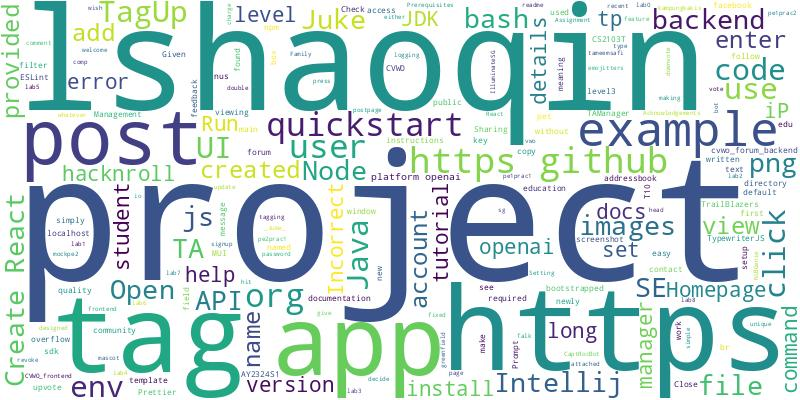
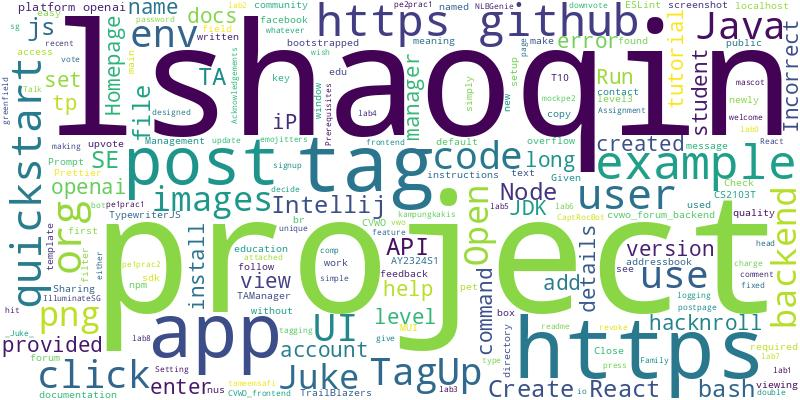
docs: auto-update README.md

diff --git a/README.md b/README.md
@@ -2,63 +2,61 @@
 ## Hi, I'm Shaoqin! 👋
 I'm a Computer Science student at the National University of Singapore. I like travelling🚀, games🎮, and music🎵!
 
----
-
 ## 🔨 I've been working on:
 
 <details>
-<summary><strong>🌟coolprofiles</strong></summary>
+<summary><strong>😎coolprofiles</strong></summary>
 Link to repo: https://github.com/lshaoqin/coolprofiles
 <br/>
-This repository contains a tool that allows you to dynamically generate README files for your GitHub profile.
+This repository contains a collection of dynamically generated README files which can be used for your GitHub profile.
 
 ---
 
-The coolprofiles repository has undergone several updates to improve the formatting and functionality of dynamically generated READMEs. Commits include fixing bugs related to emojis, improving wordcloud formatting, scheduling cron jobs, auto-updating README files, integrating GitHub actions for wordcloud generation, and making minor text changes.
+The coolprofiles repository has seen various updates and improvements to its README file, focusing on wordcloud formatting, fixing an emoji bug, and scheduling cron tasks. Additionally, there were updates to the markdown and formatting, integration of GitHub actions for the wordcloud, and minor text changes.
 </details>
 
 <details>
-<summary><strong>🤔lshaoqin</strong></summary>
+<summary><strong>😄lshaoqin</strong></summary>
 Link to repo: https://github.com/lshaoqin/lshaoqin
 <br/>
-This repository contains a readme file that provides a summary of a GitHub repository. The summary is generated to give a professional overview of the repository's purpose and contents.
+This repository contains a comprehensive collection of Python scripts and modules that provide various functionalities for data analysis and visualization. It includes libraries for manipulating datasets, performing statistical analysis, generating plots and charts, and much more. It is a valuable resource for data scientists and analysts looking to enhance their data processing capabilities using Python.
 
 ---
 
-The repository lshaoqin saw various updates, with improvements in the wordcloud formatting, fixing bugs related to emoji and image links, as well as enhanced markdown formatting. There were also updates to the README file and integration of GitHub actions for the wordcloud feature.
+The repository "lshaoqin" has seen various updates, including fixing formatting issues with a markdown template, updating the README file and improving wordcloud formatting. There have also been fixes for an emoji bug, changes to image links, and improvements to the overall formatting of the markdown. Additionally, there were updates to the gitignore file, reverting previous changes, and making minor text modifications.
 </details>
 
 <details>
-<summary><strong>💡MekongGPT</strong></summary>
+<summary><strong>⭐MekongGPT</strong></summary>
 Link to repo: https://github.com/lshaoqin/MekongGPT
 <br/>
-This repository contains a Zalo chatbot that is designed to support farmers by providing them with accurate and current information. The chatbot is powered by GPT-3.5 and Chroma, making it an innovative and reliable tool for farmers.
+This repository contains a Zalo chatbot that leverages GPT-3.5 and Chroma to deliver accurate and timely agricultural information to farmers.
 
 ---
 
-The MekongGPT repository has seen various commits to improve accuracy, adjust prompts, integrate Firebase, fix bugs, and update dependencies. Changes include reverting Dockerfile changes, updating arrow dependency, and adding storage of queries and answers. The repository also includes changes to force the bot to reply in Vietnamese and adjust the priority for the /zaloquery response.
+The MekongGPT repository saw various changes and improvements, including updating dependencies, improving bot accuracy, adjusting prompts, integrating Firebase, fixing bugs, and adding logging and storage functionalities. The repository also went through testing and deployment changes using Dockerfile and Render, while also implementing a verifier and access token updates.
 </details>
 
 <details>
-<summary><strong>❓pe</strong></summary>
+<summary><strong>🤔pe</strong></summary>
 Link to repo: https://github.com/lshaoqin/pe
 <br/>
-This repository contains a detailed readme file providing information about the project, its purpose, and how to use it. It also includes documentation on installation instructions, dependencies, and any special setup requirements. The readme file serves as a guide for developers or users interested in understanding and utilizing the repository effectively.
+This repository contains a comprehensive README file that provides an overview and instructions for a specific GitHub project or codebase. It serves as a guide for developers to understand and utilize the code effectively.
 
 ---
 
-There have been 30 successive commits to the "pe" repository, all involving uploading files.
+There have been 30 commits to the repository named "pe" where files were uploaded.
 </details>
 
 <details>
-<summary><strong>🔮aoc2023</strong></summary>
+<summary><strong>🌍aoc2023</strong></summary>
 Link to repo: https://github.com/lshaoqin/aoc2023
 <br/>
-This repository contains my code for the Advent of Code 2023 event, showcasing my solutions to various programming puzzles and challenges presented during the event.
+This repository contains the code for the Advent of Code 2023 event.
 
 ---
 
-This repository contains my code for the Advent of Code 2023 event. Commits include added code for days 23 to 2, an updated code for day 12, and a removal of an extra print statement.
+Added code for days 23 to 2, updated code for day 12, added solution for day 1.2, and updated README.md.
 </details>
 
 <br>
@@ -73,5 +71,6 @@ This repository contains my code for the Advent of Code 2023 event. Commits incl
 
 <p align="center">
 📢 <strong>This README was automatically generated using <a href="https://github.com/lshaoqin/coolprofiles">coolprofiles</a>!</strong>
+<br>
 <em>Psst...<a href="https://github.com/lshaoqin/coolprofiles">coolprofiles</a> is a tool that I built with my team. You can fork it yourself to try it out!</em>
 </p>
